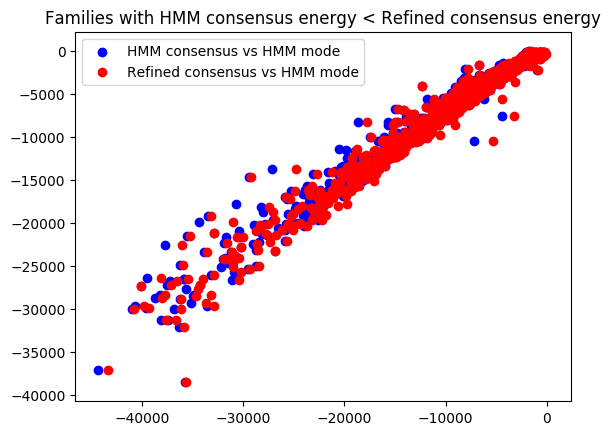
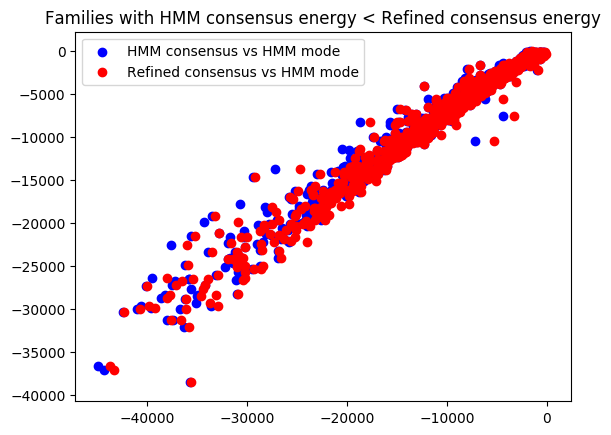
new plots with 5000+ sequences and commented dca script

diff --git a/DCA/pydca_consensus.py b/DCA/pydca_consensus.py
@@ -18,10 +18,12 @@ from datetime import datetime
 
 start = time.time()
 
+#mapping each amino acid to a number
 mappings = {'A': 1, 'C': 2, 'D': 3, 'E': 4, 'F': 5, 'G': 6, 'H': 7, 'I': 8, 'K': 9, 'L': 10, 'M': 11,
 'N': 12, 'P': 13, 'Q': 14, 'R': 15, 'S': 16, 'T': 17, 'V': 18, 'W': 19, 'Y': 20, '-': 21}
 
 #mean field dca (pydca)
+#not using this anymore
 def mfdca_compute_params(filename):
 	cwd = 'mfdca compute_params protein ../temp_files/train_file.fasta --verbose'
 	cwd = cwd.split(' ')
@@ -46,6 +48,7 @@ def mfdca_compute_params(filename):
 				break
 
 #reading couplings file
+#not using this anymore
 def read_couplings():
 	couplings_filename = 'DCA_output_train_file/couplings_train_file.txt'
 	couplings = {}
@@ -68,6 +71,7 @@ def read_couplings():
 	return couplings, loa
 
 #reading fields file
+#not in use
 def read_fields():
 	fields_filename = 'DCA_output_train_file/fields_train_file.txt'
 	fields = {}
@@ -84,7 +88,7 @@ def read_fields():
 
 	return fields
 
-#train test partition of the refined alignment 
+#train test partition of the refined alignment - not in use, not creating any partitiion. the entire refined alignment is the training set 
 def train_test_partition(train_file, test_file, main_file):
 	sequences, headers = fasta_to_list(main_file)
 	nos = len(sequences)
@@ -102,7 +106,7 @@ def train_test_partition(train_file, test_file, main_file):
 					else:
 						fout_2.write(line)
 
-#energy calculation using couplings and fields from mfdca (pydca)
+#energy calculation using couplings and fields from mfdca (pydca) - not in use
 def energy_function(sequence, couplings, fields):
 	energy = 0
 	sequence_length = len(sequence)
@@ -135,62 +139,25 @@ def energy_function(sequence, couplings, fields):
 			val = fields[(sequence_length, last_aa_no)]
 
 	energy += val
-
-	'''
-	for i in range(sequence_length):
-		aa_i = sequence[i].upper()
-		if aa_i == '-':
-			continue
-		if aa_i not in mappings:
-			continue
-		aa_i_no = mappings[aa_i]
-		try:
-			val = fields[(i+1, aa_i_no)]
-			energy -= val
-		except:
-			continue
-
-		for j in range(sequence_length):
-			aa_j = sequence[j].upper()
-			if i != j:
-				if aa_j == '-':
-					continue
-
-				if aa_j not in mappings:
-					continue
-
-				aa_j_no = mappings[aa_j]
-				try:
-					val = couplings[(i+1, j+1, aa_i_no, aa_j_no)]
-					energy -= val
-				except:
-					continue
-		'''
-
 	return energy
 
-'''
-def score_sequence(energy):
-	score = -energy
-	return score
-'''
 #split combined alignment to refined and hmm
 
 def split_combined_alignment(combined_alignment, only_refined, only_hmm):
 	refined = []
 	hmm = []
-	with open(only_refined, 'w') as fout_1:
-		with open(only_hmm, 'w') as fout_2:
-			for record in SeqIO.parse(combined_alignment, 'fasta'):
-				if 'refined' in record.id:
-					hmm.append(record)
+	with open(only_refined, 'w') as fout_1: #open empty file for refined alignment
+		with open(only_hmm, 'w') as fout_2: #open empty file for combined aligmment
+			for record in SeqIO.parse(combined_alignment, 'fasta'): #parsing combined alignment using biopython module
+				if 'refined' in record.id: #if 'refined' is in header
+					hmm.append(record) #append to hmm only file (hmm sequences have 'refined' in their headers because the refined alignment was use to generate them)
 				else:
 					refined.append(record)
 
 	SeqIO.write(refined, only_refined, 'fasta')
 	SeqIO.write(hmm, only_hmm, 'fasta')
 
-
+#not in use
 def sequence_energies_loop(sequences, couplings, fields):
 	energy_list = []
 	for sequence in sequences:
@@ -198,17 +165,8 @@ def sequence_energies_loop(sequences, couplings, fields):
 		energy_list.append(e)
 
 	return energy_list
-'''
-def score_loop(energies):
-	scores = []
-	for e in energy:
-		scores.append(score_sequence(e))
 
-	scores = np.array(scores)
-
-	return scores
-'''
-
+#percentage identity of two aligned sequences
 def percentage_identity(refined_consensus, hmm_consensus):
 	matches = 0
 	seq_length = len(refined_consensus)
@@ -218,7 +176,7 @@ def percentage_identity(refined_consensus, hmm_consensus):
 
 	pi = (matches*100)/seq_length
 	return pi
-
+#not in use
 def analyse_couplings(loa, couplings):
 
 	for i in range(1, loa):
@@ -230,7 +188,7 @@ def analyse_couplings(loa, couplings):
 		max_value = max(values)
 		min_value = min(values)
 		print(i, max_value, min_value)
-
+#not in use
 def analyse_fields(loa, fields):
 
 	for i in range(1, loa + 1):
@@ -280,6 +238,7 @@ def fisher_yates_without_dashes(sequences):
 	return shuffled
 
 #plot energies
+#not in use
 def plot_energies(
         sequence_energies_from_training_sequences, sequence_energies_from_hmm_alignment,
         consensus_energy, hmm_consensus_energy, bins_refined, bins_hmm, dca_energy_plot
@@ -298,6 +257,7 @@ def plot_energies(
 	plt.close()
 
 #for martin's program
+#writing a new matlab script to call martin's dca program for each family
 def write_matlab_script(filename):
 
 	dca_calculation_script = '../martin_dca/dca_energy.m'
@@ -318,14 +278,16 @@ def call_matlab_script():
 	#os.chdir('../DCA')
 
 def main_pydca(filename, accession_file):
-
+        
+        #some file name variables from ugly_strings.py
 	combined_file, train_file, test_file, only_refined, only_hmm, dca_energy_plot, consensus_file, combined_with_consensus = pydca_strings(filename)
 	try:
+                #check if consensus file is missing or empty
 		if os.stat(consensus_file).st_size == 0 or os.stat(combined_file) == 0:
 			#remove_accession(accession_file, filename)
 			print('Some files are missing, so skipping this family for now!')
 			return
-
+                #check if dca energy plot is missing or empty
 		if path.exists(dca_energy_plot) and os.stat(dca_energy_plot).st_size != 0:
 			#remove_accession(accession_file, filename)
 			print('Already calculated!')
@@ -367,12 +329,13 @@ def main_pydca(filename, accession_file):
 	except Exception as e:
 		print(e)
 		return
-
+        
+        #finding consensus sequences for hmm sequences
 	hmm_pm = profile_matrix(hmm_sequences)
 	hmm_consensus = consensus_sequence(hmm_sequences, hmm_pm)
 	hmm_header = '>consensus-from-hmm-emitted-sequences'
 
-	cons_seqs, cons_headers = fasta_to_list(consensus_file)
+	cons_seqs, cons_headers = fasta_to_list(consensus_file) #write hmm consensus to consensus file
 	if hmm_header[1: ] not in cons_headers:
 		with open(consensus_file, 'a') as fin:
 			fin.write(hmm_header)
@@ -384,8 +347,9 @@ def main_pydca(filename, accession_file):
 	consensus_seq = consensus_seq[0]
 
 	option = '2'
-	realign(option, only_refined, consensus_file, combined_with_consensus)
+	realign(option, only_refined, consensus_file, combined_with_consensus) #align both consensus to refined alignment
 
+        #extract refined consensus and hmm consensus from the above realigned file (combined_with_consensus)
 	for record in SeqIO.parse(combined_with_consensus, 'fasta'):
 		#print(record.id)
 		if record.id == 'consensus-from-hmm-emitted-sequences':
@@ -401,6 +365,7 @@ def main_pydca(filename, accession_file):
 	#print(consensus_seq_aligned, type(consensus_seq_aligned))
 	#print('\n')
 	#print(hmm_consensus_aligned, type(hmm_consensus_aligned))
+
 	#rewrite both consensus in the consensus file in the aligned form
 	with open(consensus_file, 'w') as fin:
 		fin.write('>consensus-from-refined-alignment\n')
@@ -414,7 +379,8 @@ def main_pydca(filename, accession_file):
 	#maximum = max([max(sequence_energies_from_hmm_alignment), max(sequence_energies_from_training_sequences)]) + 1000
 	#bins_refined = np.linspace(min(sequence_energies_from_training_sequences), max(sequence_energies_from_training_sequences))
 	#bins_hmm = np.linspace(min(sequence_energies_from_hmm_alignment), max(sequence_energies_from_hmm_alignment))
-	pi = percentage_identity(consensus_seq_aligned, hmm_consensus_aligned)
+	
+        pi = percentage_identity(consensus_seq_aligned, hmm_consensus_aligned)
 	print('Percentage Identity of the two consensus sequences: ', pi, '\n')
 
 	#plot_energies(sequence_energies_from_training_sequences, sequence_energies_from_hmm_alignment, 
